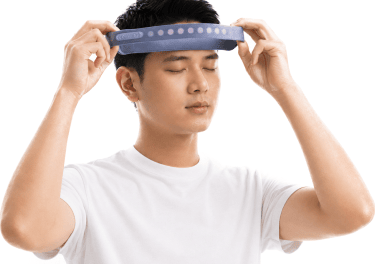
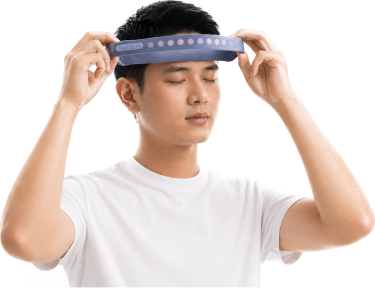
Remove the direction heading and restore the wearing photos.
Drop the heading above Board 12 and the extra margin under it, and put back the full-color wearing-guidance images from before they were palette-compressed.

diff --git a/src/pages/Home.tsx b/src/pages/Home.tsx
@@ -48,7 +48,7 @@ const steps = [
       {
         src: 'wear-stretch-head.png',
         width: 375,
-        height: 264,
+        height: 288,
         alt: 'Person pulling the headband into place with both hands.',
       },
     ],
@@ -67,7 +67,7 @@ const steps = [
       {
         src: 'wear-guide-head.png',
         width: 373,
-        height: 281,
+        height: 301,
         alt: 'Person wearing the headband and wristband, eyes closed, beside a close view of the headband surface.',
       },
     ],
@@ -80,7 +80,7 @@ const steps = [
       {
         src: 'wear-play-wrist.png',
         width: 375,
-        height: 208,
+        height: 223,
         alt: 'Wristband worn on the wrist while holding a game controller.',
       },
       {
@@ -239,9 +239,6 @@ export function Home() {
       </Reveal>
 
       <section className="band">
-        <Reveal>
-          <h2 className="statement">Direction headband & Distance wristband</h2>
-        </Reveal>
         <Board12Scene />
       </section>
 

diff --git a/src/components/Board12Scene.tsx b/src/components/Board12Scene.tsx
@@ -57,7 +57,7 @@ export function Board12Scene() {
   const bandOpen = state === 'headband'
 
   return (
-    <div className="stage follow scene" onClick={() => setState('initial')}>
+    <div className="stage scene" onClick={() => setState('initial')}>
       <div className={`stage-canvas${ready ? ' scene-ready' : ''}`}>
         {ready ? (
           <>

diff --git a/src/overlays.css b/src/overlays.css
@@ -11,8 +11,6 @@
 
 .stage.dark { background: #141414; }
 
-.stage.follow { margin-top: 3.25rem; }
-
 .hero .stage {
   width: auto;
   margin: 0 var(--edge);
@@ -166,8 +164,4 @@
   .ripple.delay { display: none; }
   .scene-spinner,
   .scene-ready { animation: none; }
-}
-
-@media (max-width: 860px) {
-  .stage.follow { margin-top: 2rem; }
 }
